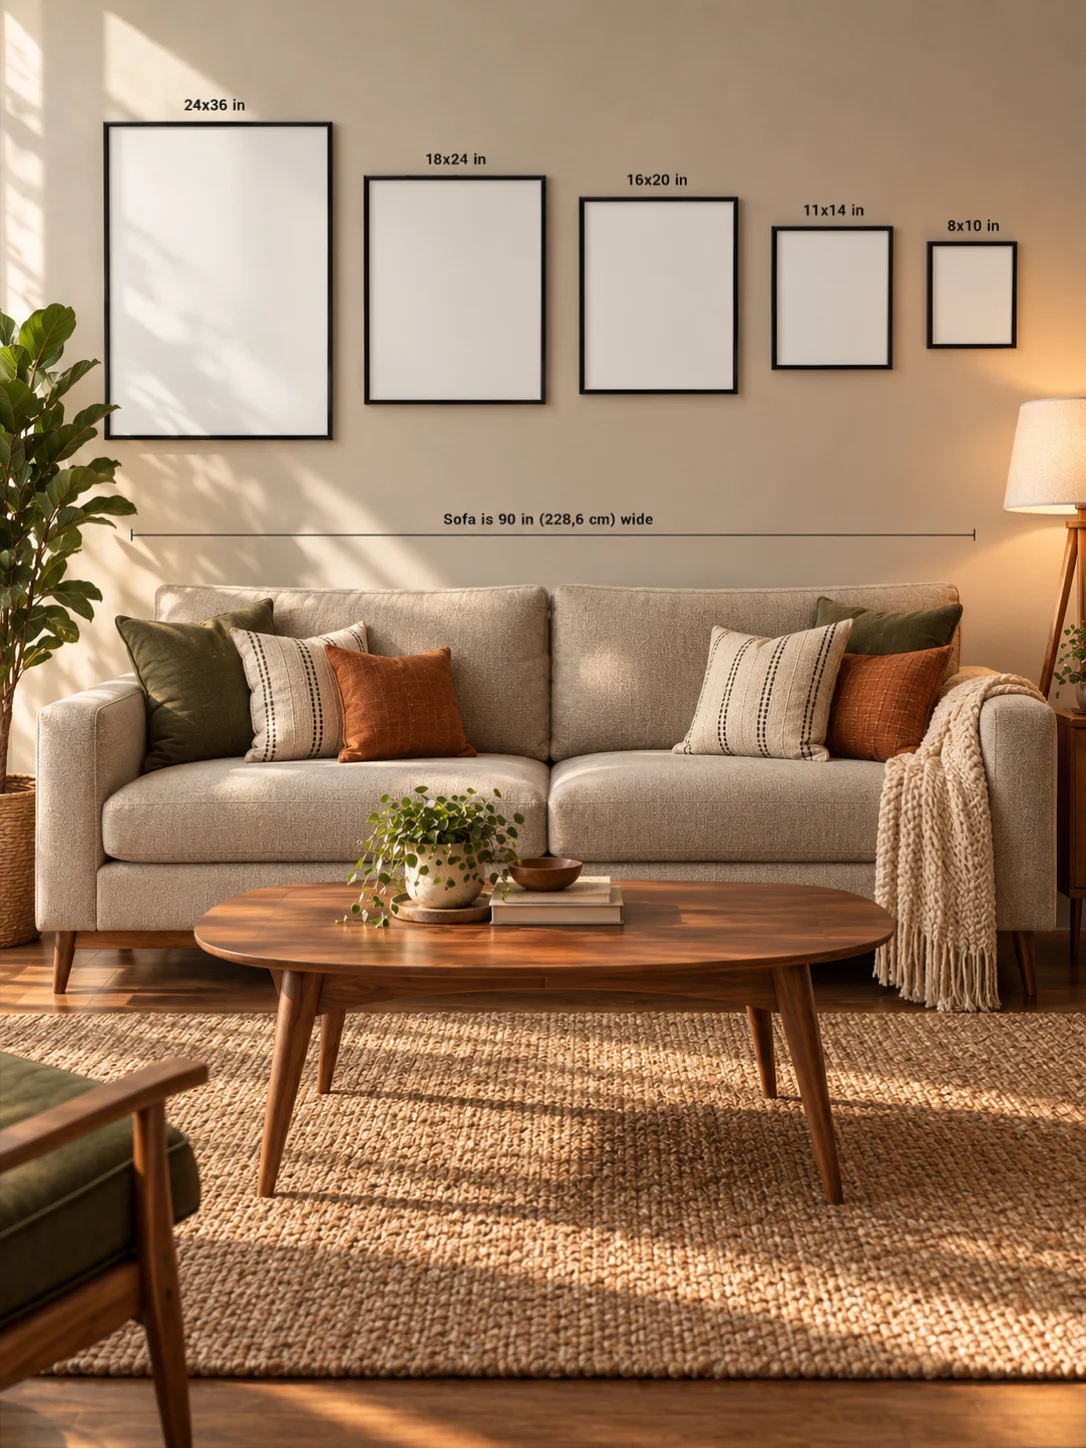
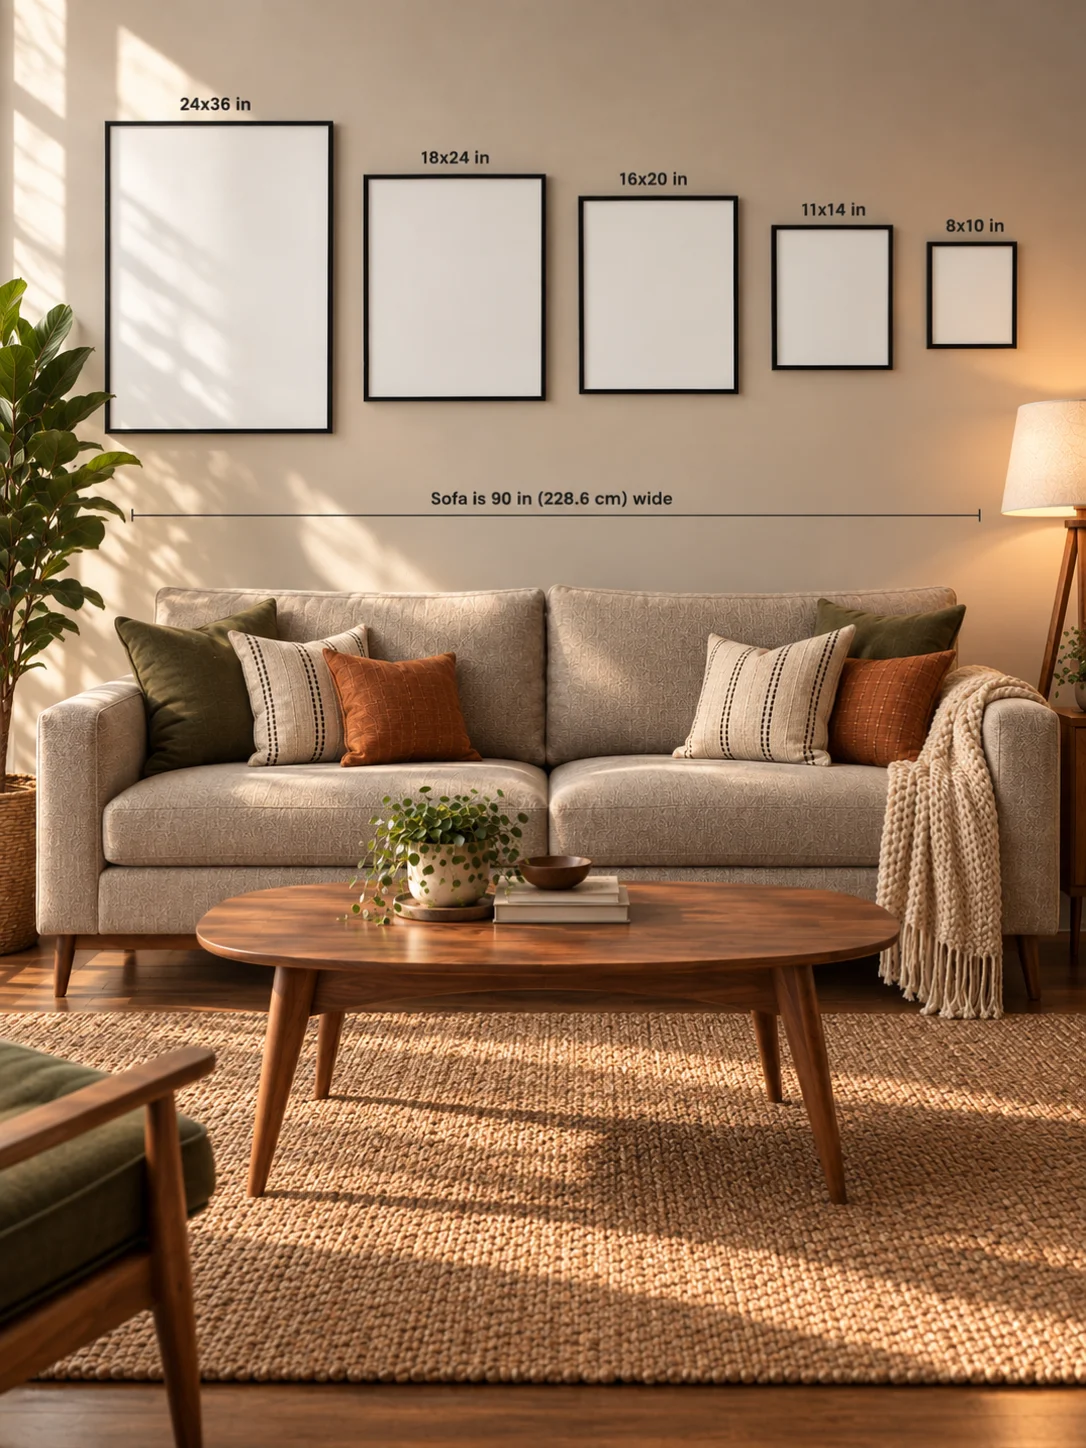
fix(shop): the size guide caption reads 228.6 cm, and the rule meets the sofa
Same picture, two corrections from the generator: the caption had a comma
for a decimal point, and the measuring rule now ends on the sofa arms
rather than past them.

Proportions are unchanged within noise -- 8x10 measures 38.1% of the 24x36
width against 38.4% before, where the true figure is 33.3 -- so the numbers
recorded beside the asset are updated to this version's rather than left
describing the last one.

diff --git a/config/shop-copy.ts b/config/shop-copy.ts
@@ -81,13 +81,11 @@ export interface ShopImage {
  *
  * Known and accepted (Kenny, 2026-09-17): the frames are generated rather than measured, and the
  * two smallest are drawn slightly large. Measured off the mouldings, against the true ratios:
- * 18x24 79.5% of the 24x36 width where it should be 75, 16x20 69.6 where it should be 66.7,
- * 11x14 52.7 where it should be 45.8, and 8x10 38.4 where it should be 33.3. So an 8x10 reads as
+ * 18x24 80.5% of the 24x36 width where it should be 75, 16x20 69.0 where it should be 66.7,
+ * 11x14 52.2 where it should be 45.8, and 8x10 38.1 where it should be 33.3. So an 8x10 reads as
  * about 12% of the largest frame's area rather than 9%. The picture it replaced was twice that
  * wrong, and an exact composite exists if this is ever judged too loose -- the frames can be
  * computed from the sofa's real 90 inch width instead of drawn.
- *
- * The caption also reads "228,6 cm" with a comma rather than a point.
  */
 export const SIZE_GUIDE_IMAGE: ShopImage = {
   url: "/shop/size-guide.webp",
